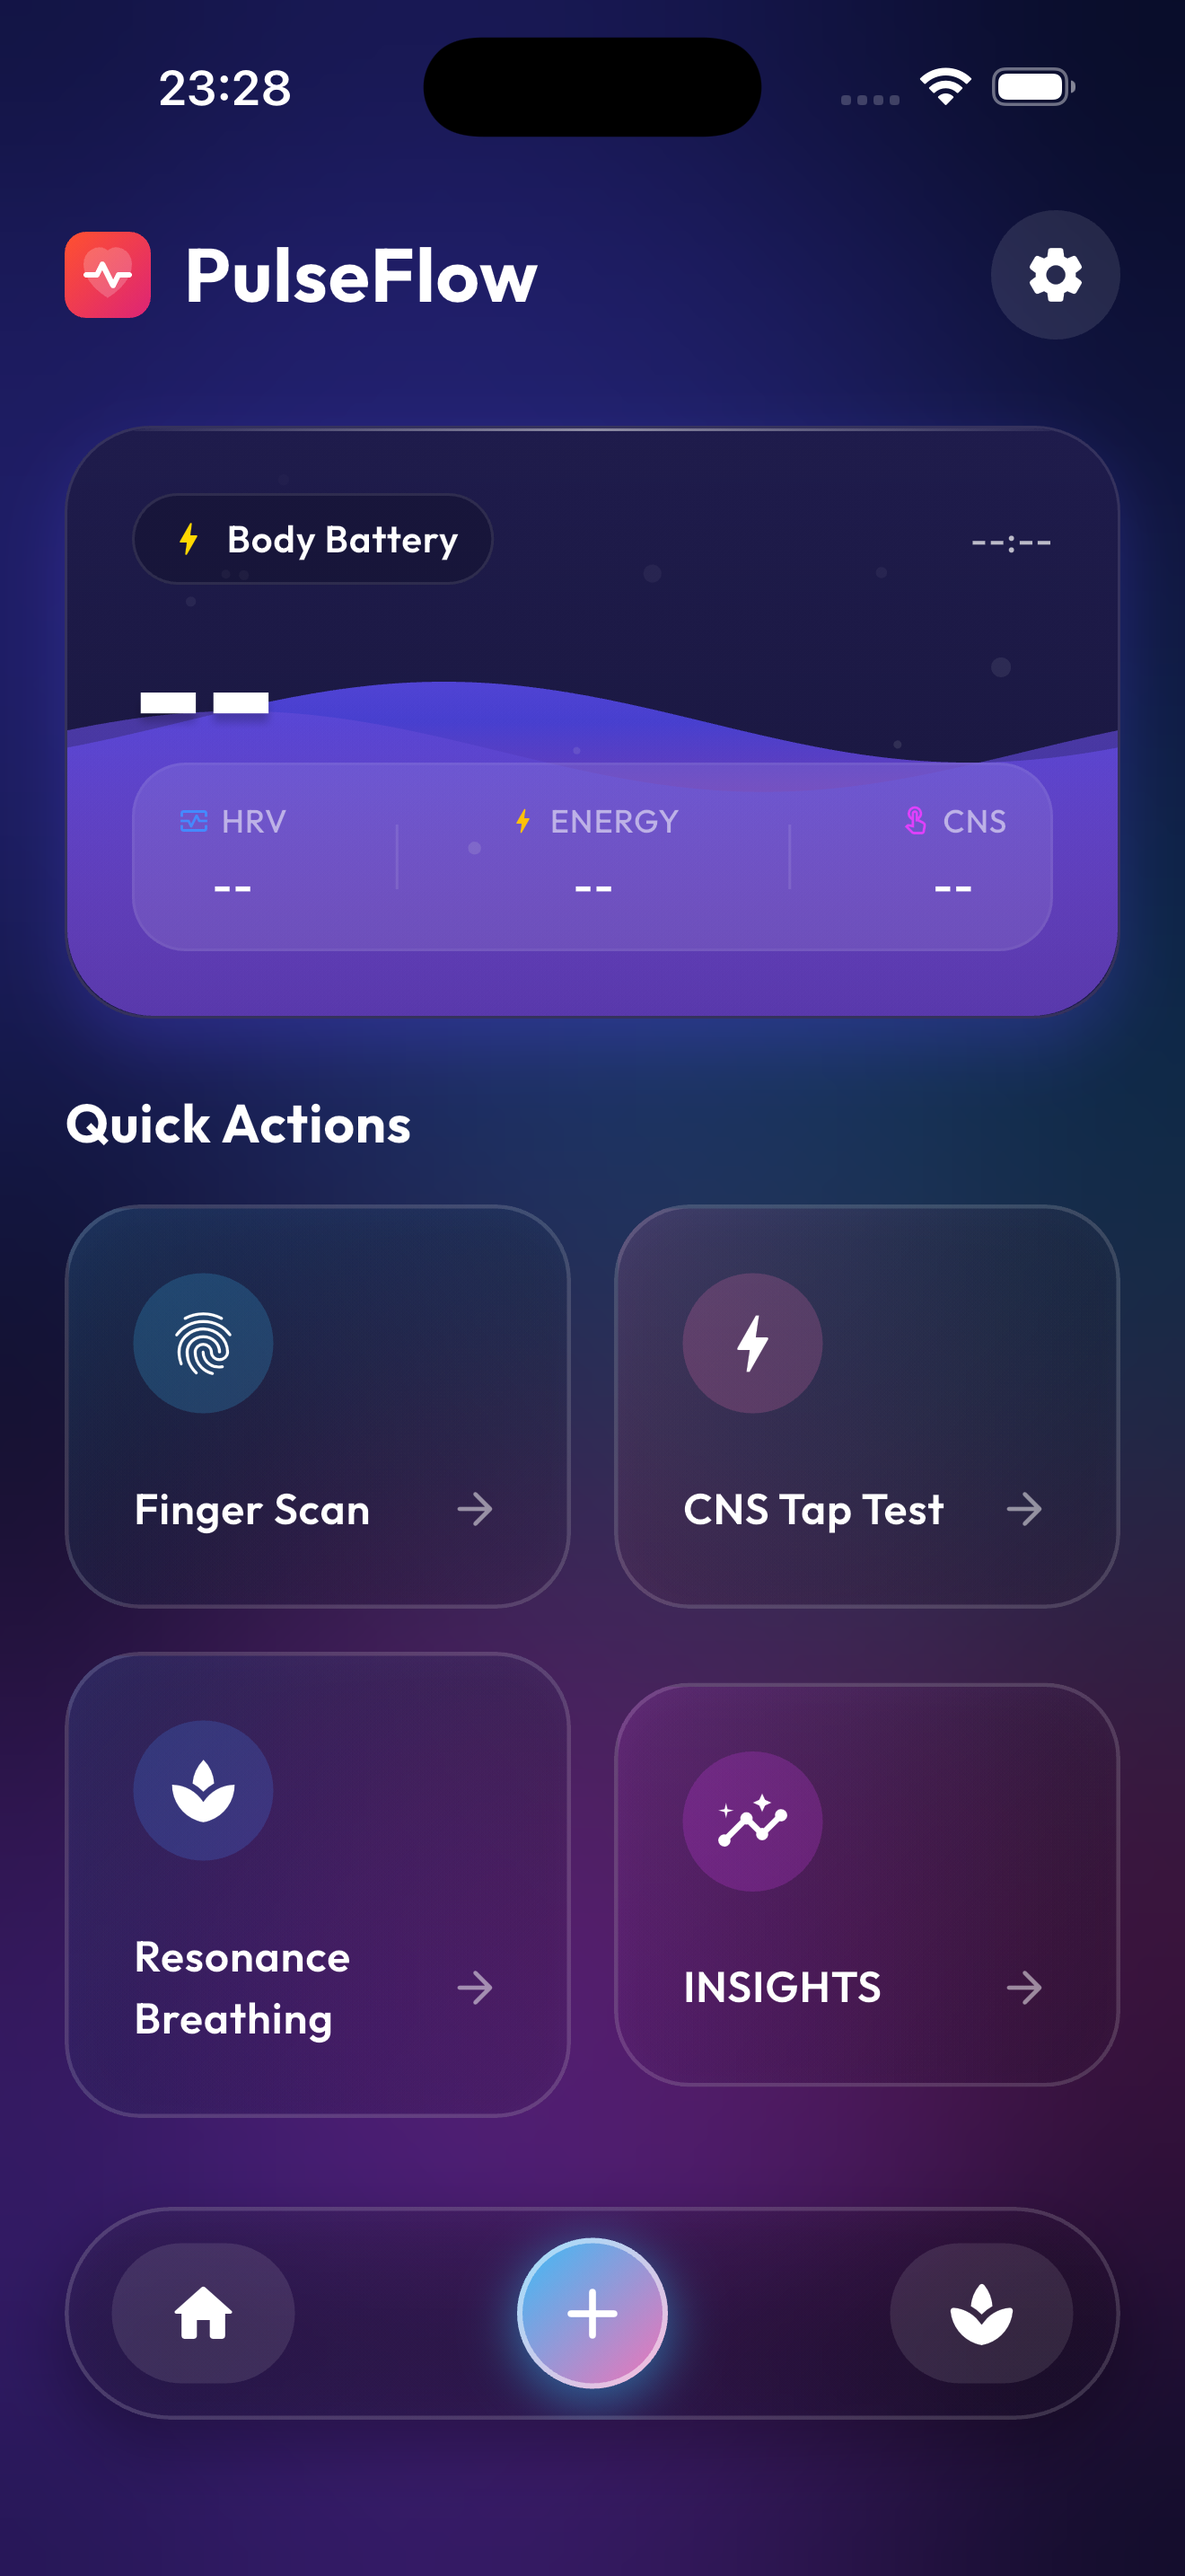
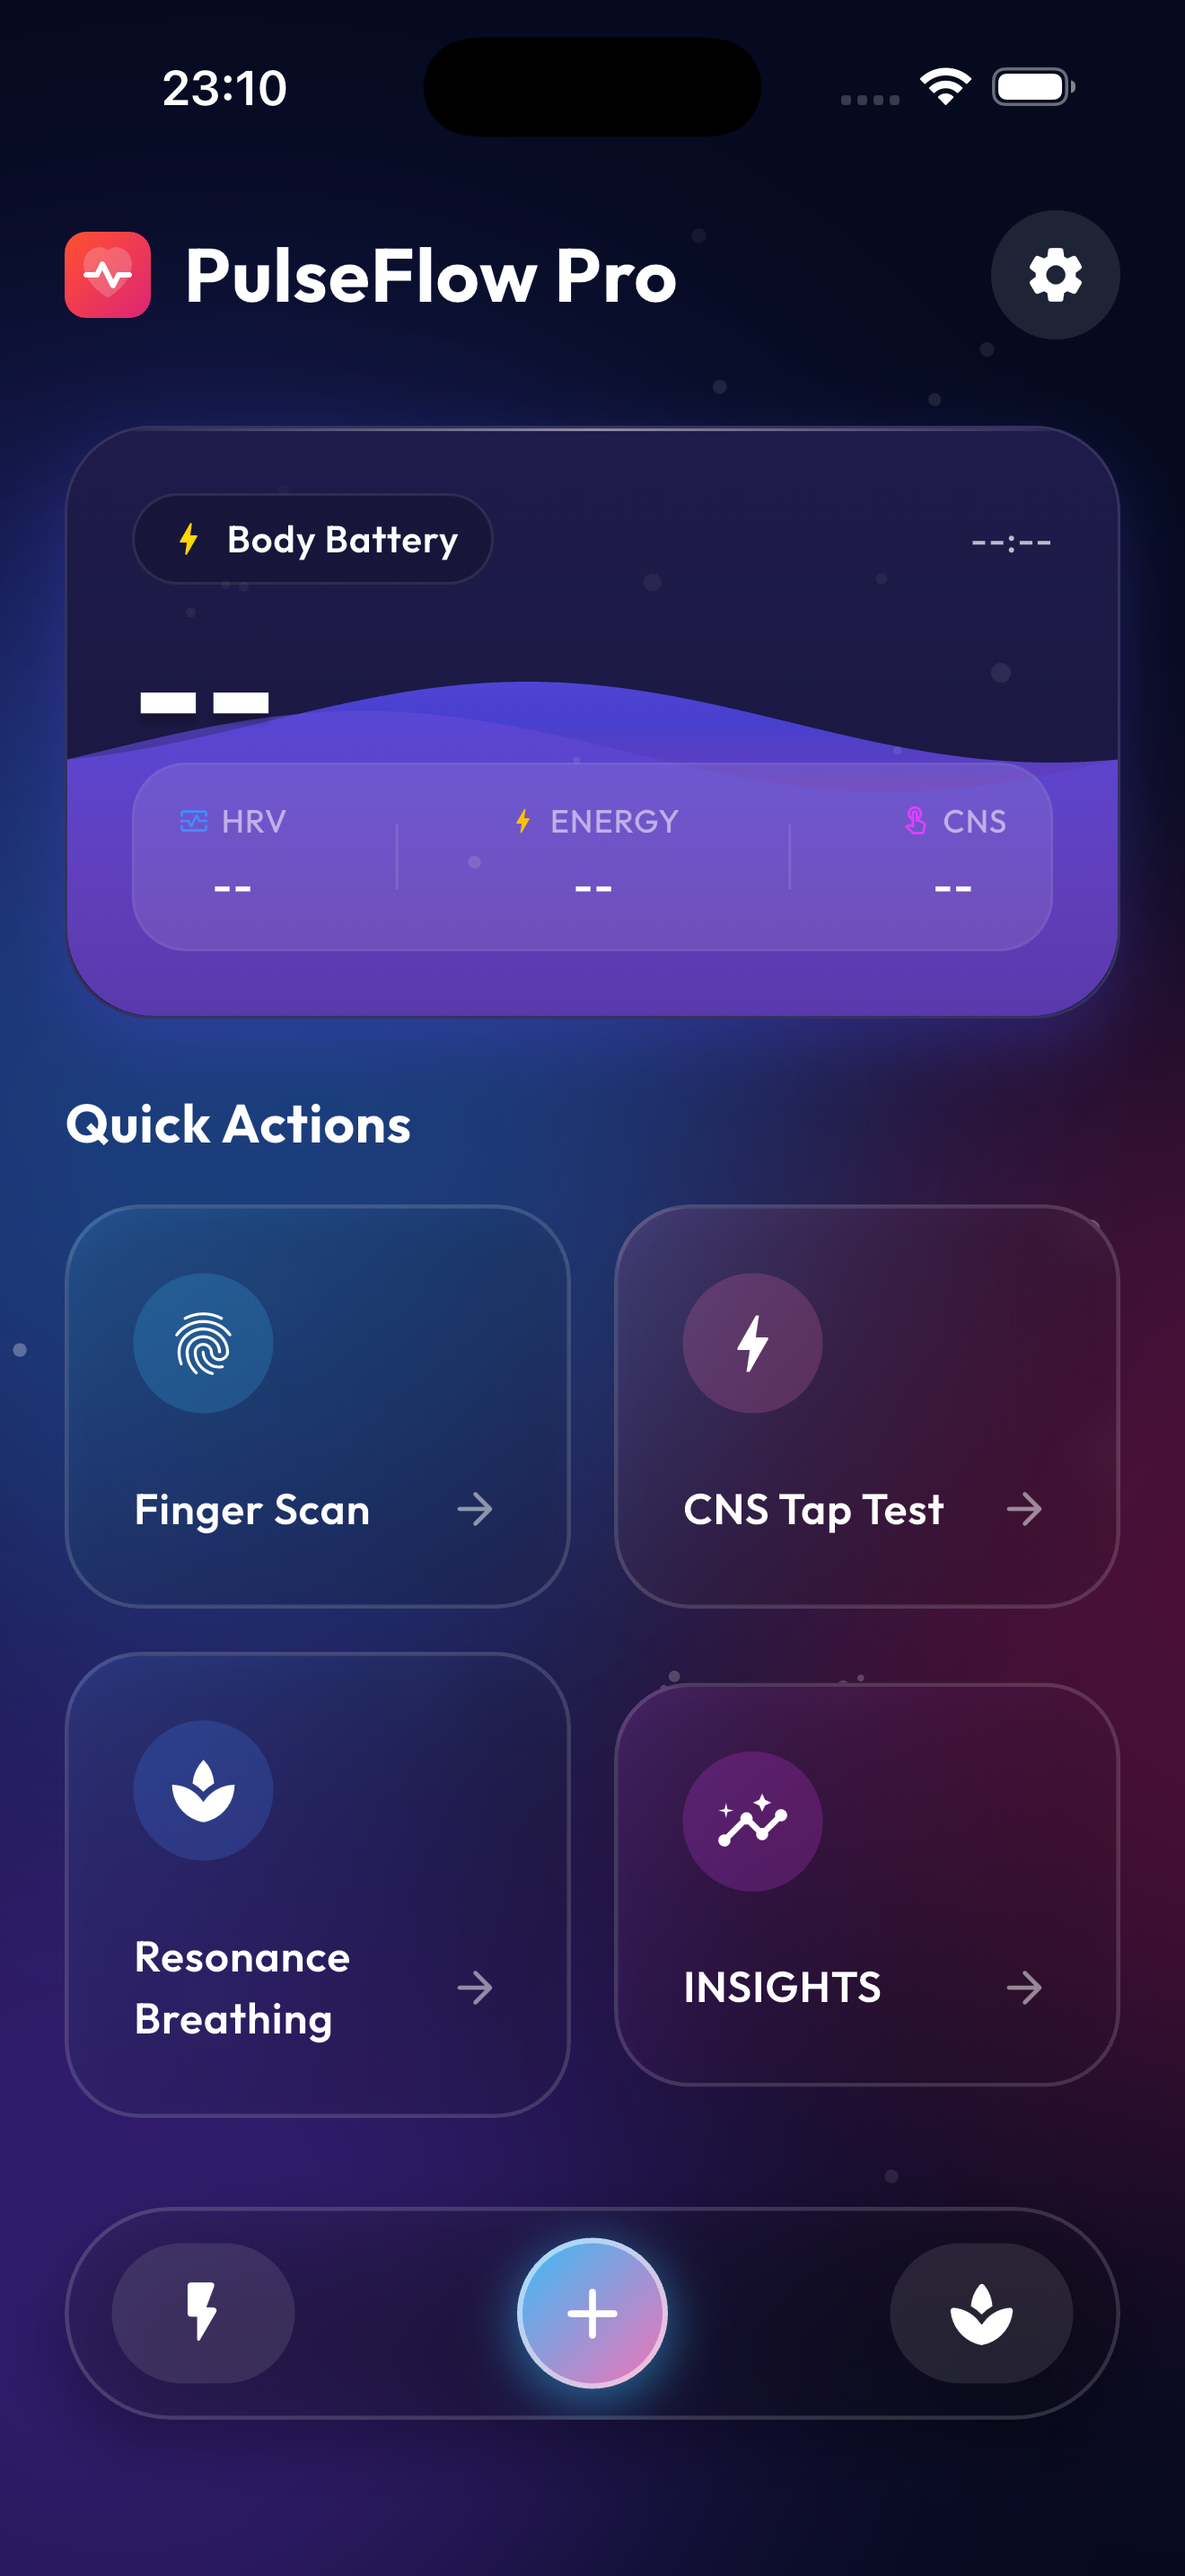
修改bug

diff --git a/HeartRate/index.html b/HeartRate/index.html
@@ -3,7 +3,7 @@
 <head>
     <meta charset="UTF-8">
     <meta name="viewport" content="width=device-width, initial-scale=1.0">
-    <title>PulseFlow - Heart Rate & Energy Monitor</title>
+    <title>PulseFlow Pro - Heart Rate & Energy Monitor</title>
     <style>
         :root {
             --primary-color: #ff4b4b; /* Heart rate red */
@@ -214,20 +214,20 @@
         <div class="container">
             <nav>
                 <div class="logo">
-                    <span>❤</span> PulseFlow
+                    <span>❤</span> PulseFlow Pro
                 </div>
-                <a href="mailto:pulseflow@gmail.com" class="btn">Contact Us</a>
+                <a href="mailto:PulseFlow Pro@gmail.com" class="btn">Contact Us</a>
             </nav>
         </div>
     </header>
 
     <section class="hero">
         <div class="container">
-            <h1>PulseFlow</h1>
+            <h1>PulseFlow Pro</h1>
             <h2>Heart Rate & Energy Monitor</h2>
             <p>Discover your body's hidden rhythm. Analyze your blood flow changes (PPG) to gain deep insights into your physical and mental energy levels.</p>
             <div style="margin-top: 30px;">
-                <a href="mailto:pulseflow@gmail.com" class="btn" style="padding: 15px 40px; font-size: 1.1rem;">Get in Touch</a>
+                <a href="mailto:PulseFlow Pro@gmail.com" class="btn" style="padding: 15px 40px; font-size: 1.1rem;">Get in Touch</a>
             </div>
         </div>
     </section>
@@ -237,12 +237,12 @@
             <h2 class="section-title">App Interface</h2>
             <div class="gallery">
                 <!-- Assuming images are in the same directory -->
-                <img src="1.png" alt="PulseFlow Screenshot 1">
-                <img src="2.png" alt="PulseFlow Screenshot 2">
-                <img src="3.png" alt="PulseFlow Screenshot 3">
-                <img src="4.png" alt="PulseFlow Screenshot 4">
-                <img src="5.png" alt="PulseFlow Screenshot 5">
-                <img src="6.png" alt="PulseFlow Screenshot 6">
+                <img src="1.png" alt="PulseFlow Pro Screenshot 1">
+                <img src="2.png" alt="PulseFlow Pro Screenshot 2">
+                <img src="3.png" alt="PulseFlow Pro Screenshot 3">
+                <img src="4.png" alt="PulseFlow Pro Screenshot 4">
+                <img src="5.png" alt="PulseFlow Pro Screenshot 5">
+                <img src="6.png" alt="PulseFlow Pro Screenshot 6">
             </div>
         </div>
     </section>
@@ -282,13 +282,13 @@
     <section class="privacy">
         <div class="container">
             <h2>Privacy First</h2>
-            <p>PulseFlow processes all data locally on your device. We do not record any video or store your biometric data on external servers.</p>
+            <p>PulseFlow Pro processes all data locally on your device. We do not record any video or store your biometric data on external servers.</p>
         </div>
     </section>
 
     <footer>
         <div class="container">
-            <p>&copy; 2024 PulseFlow. All rights reserved.</p>
+            <p>&copy; 2024 PulseFlow Pro. All rights reserved.</p>
             <div style="margin-top: 10px;">
                 <a href="private/privacy_policy.html">Privacy Policy</a>
                 <a href="private/terms_of_service.html">Terms of Service</a>
